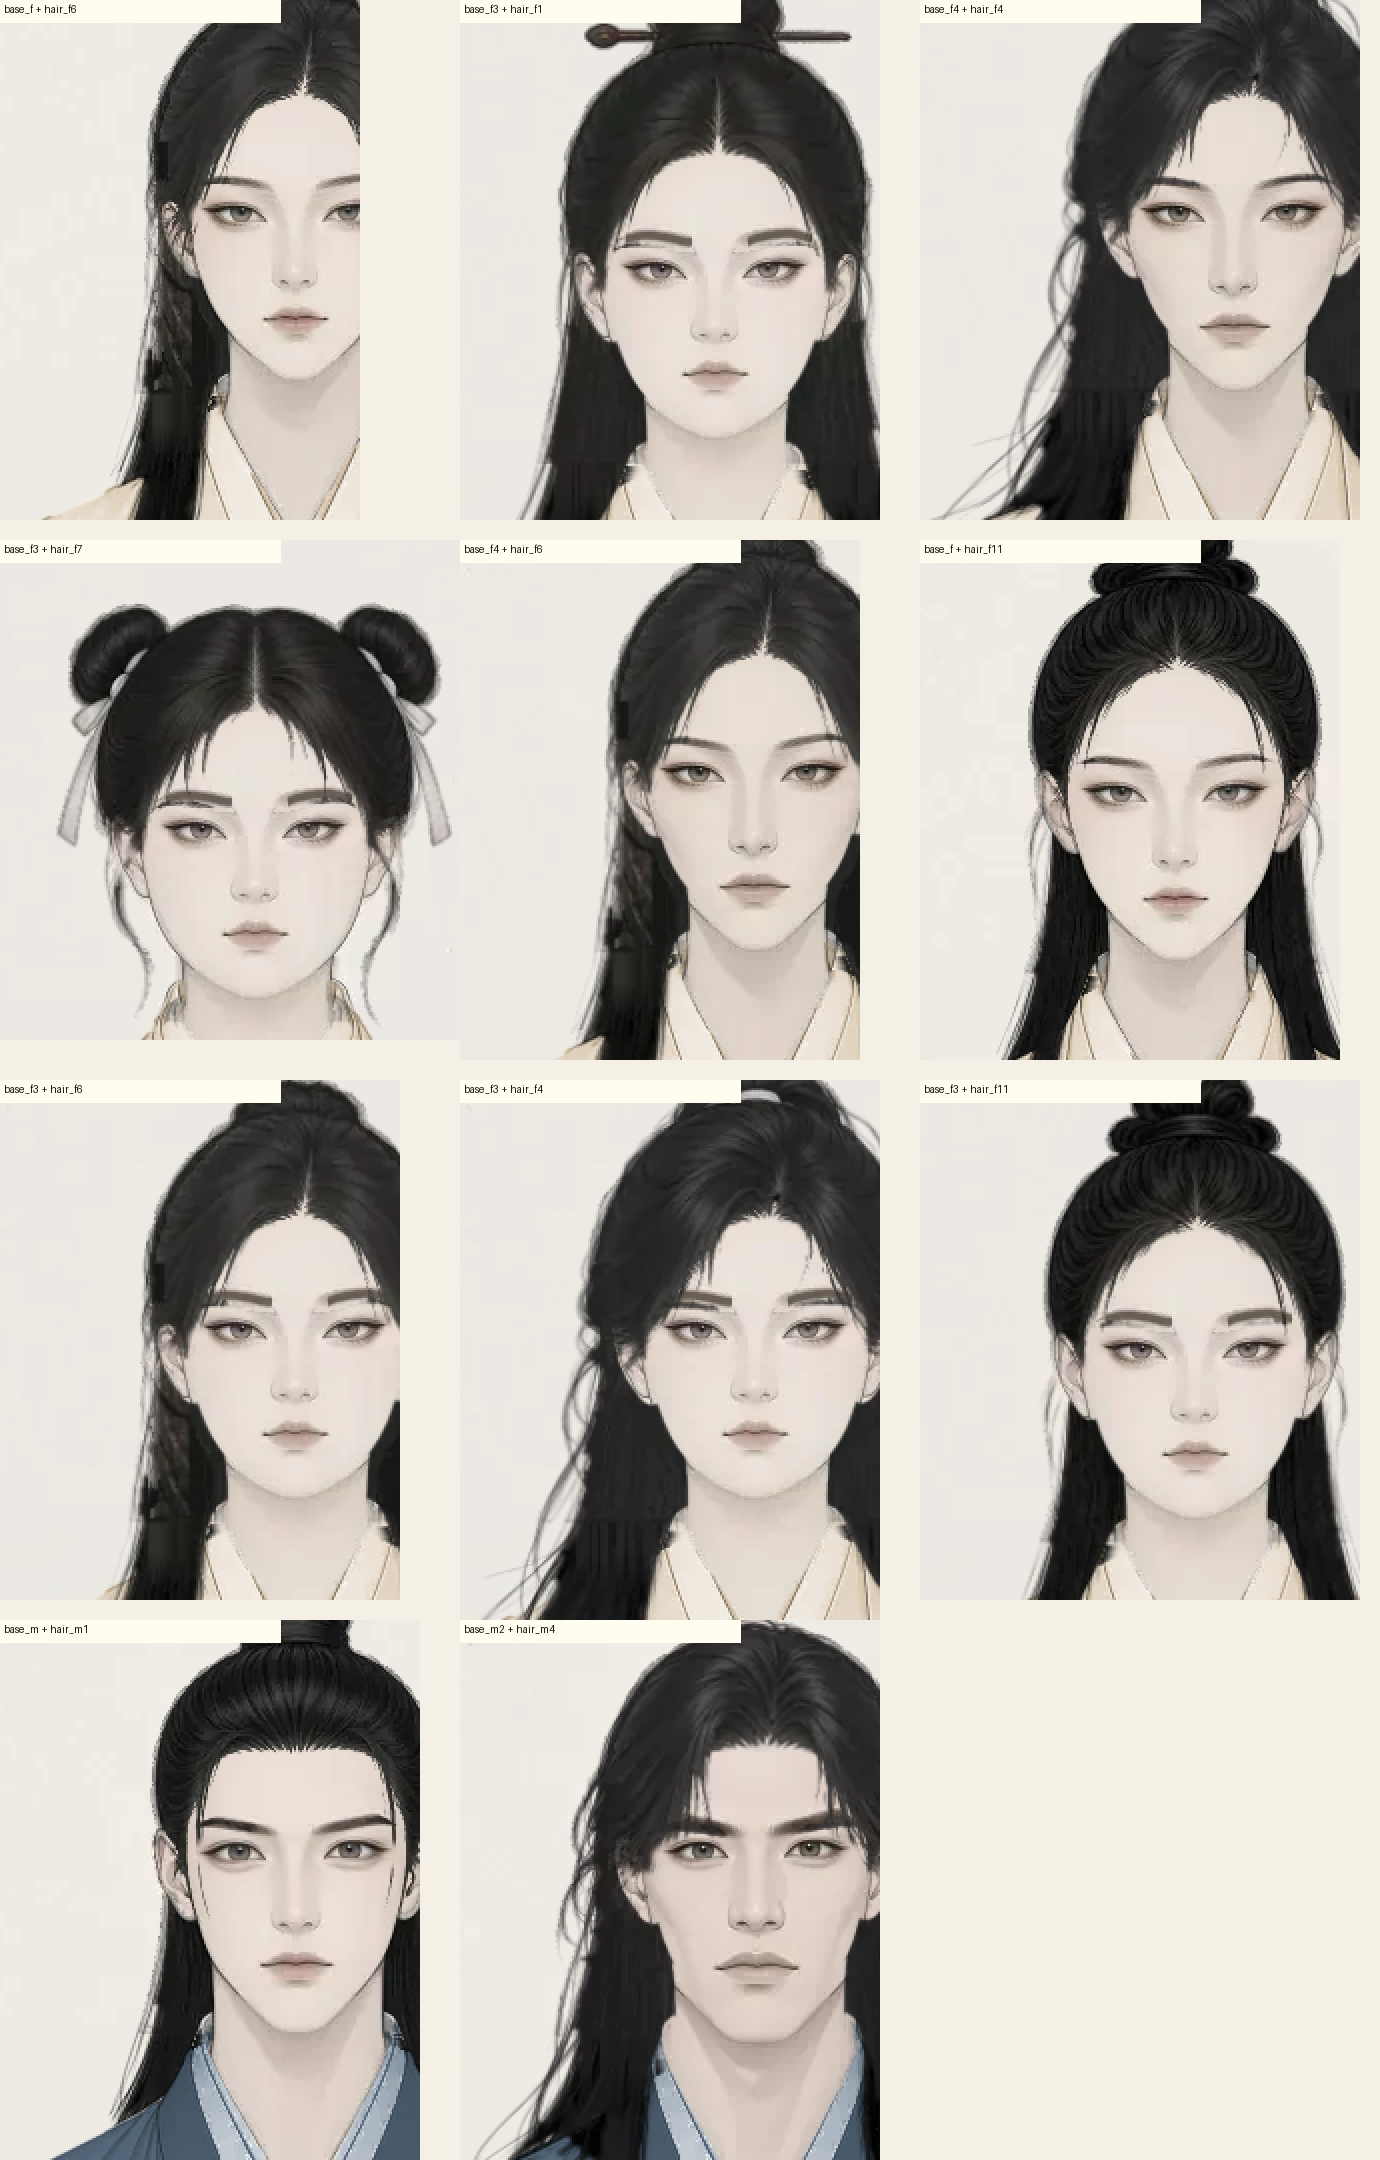
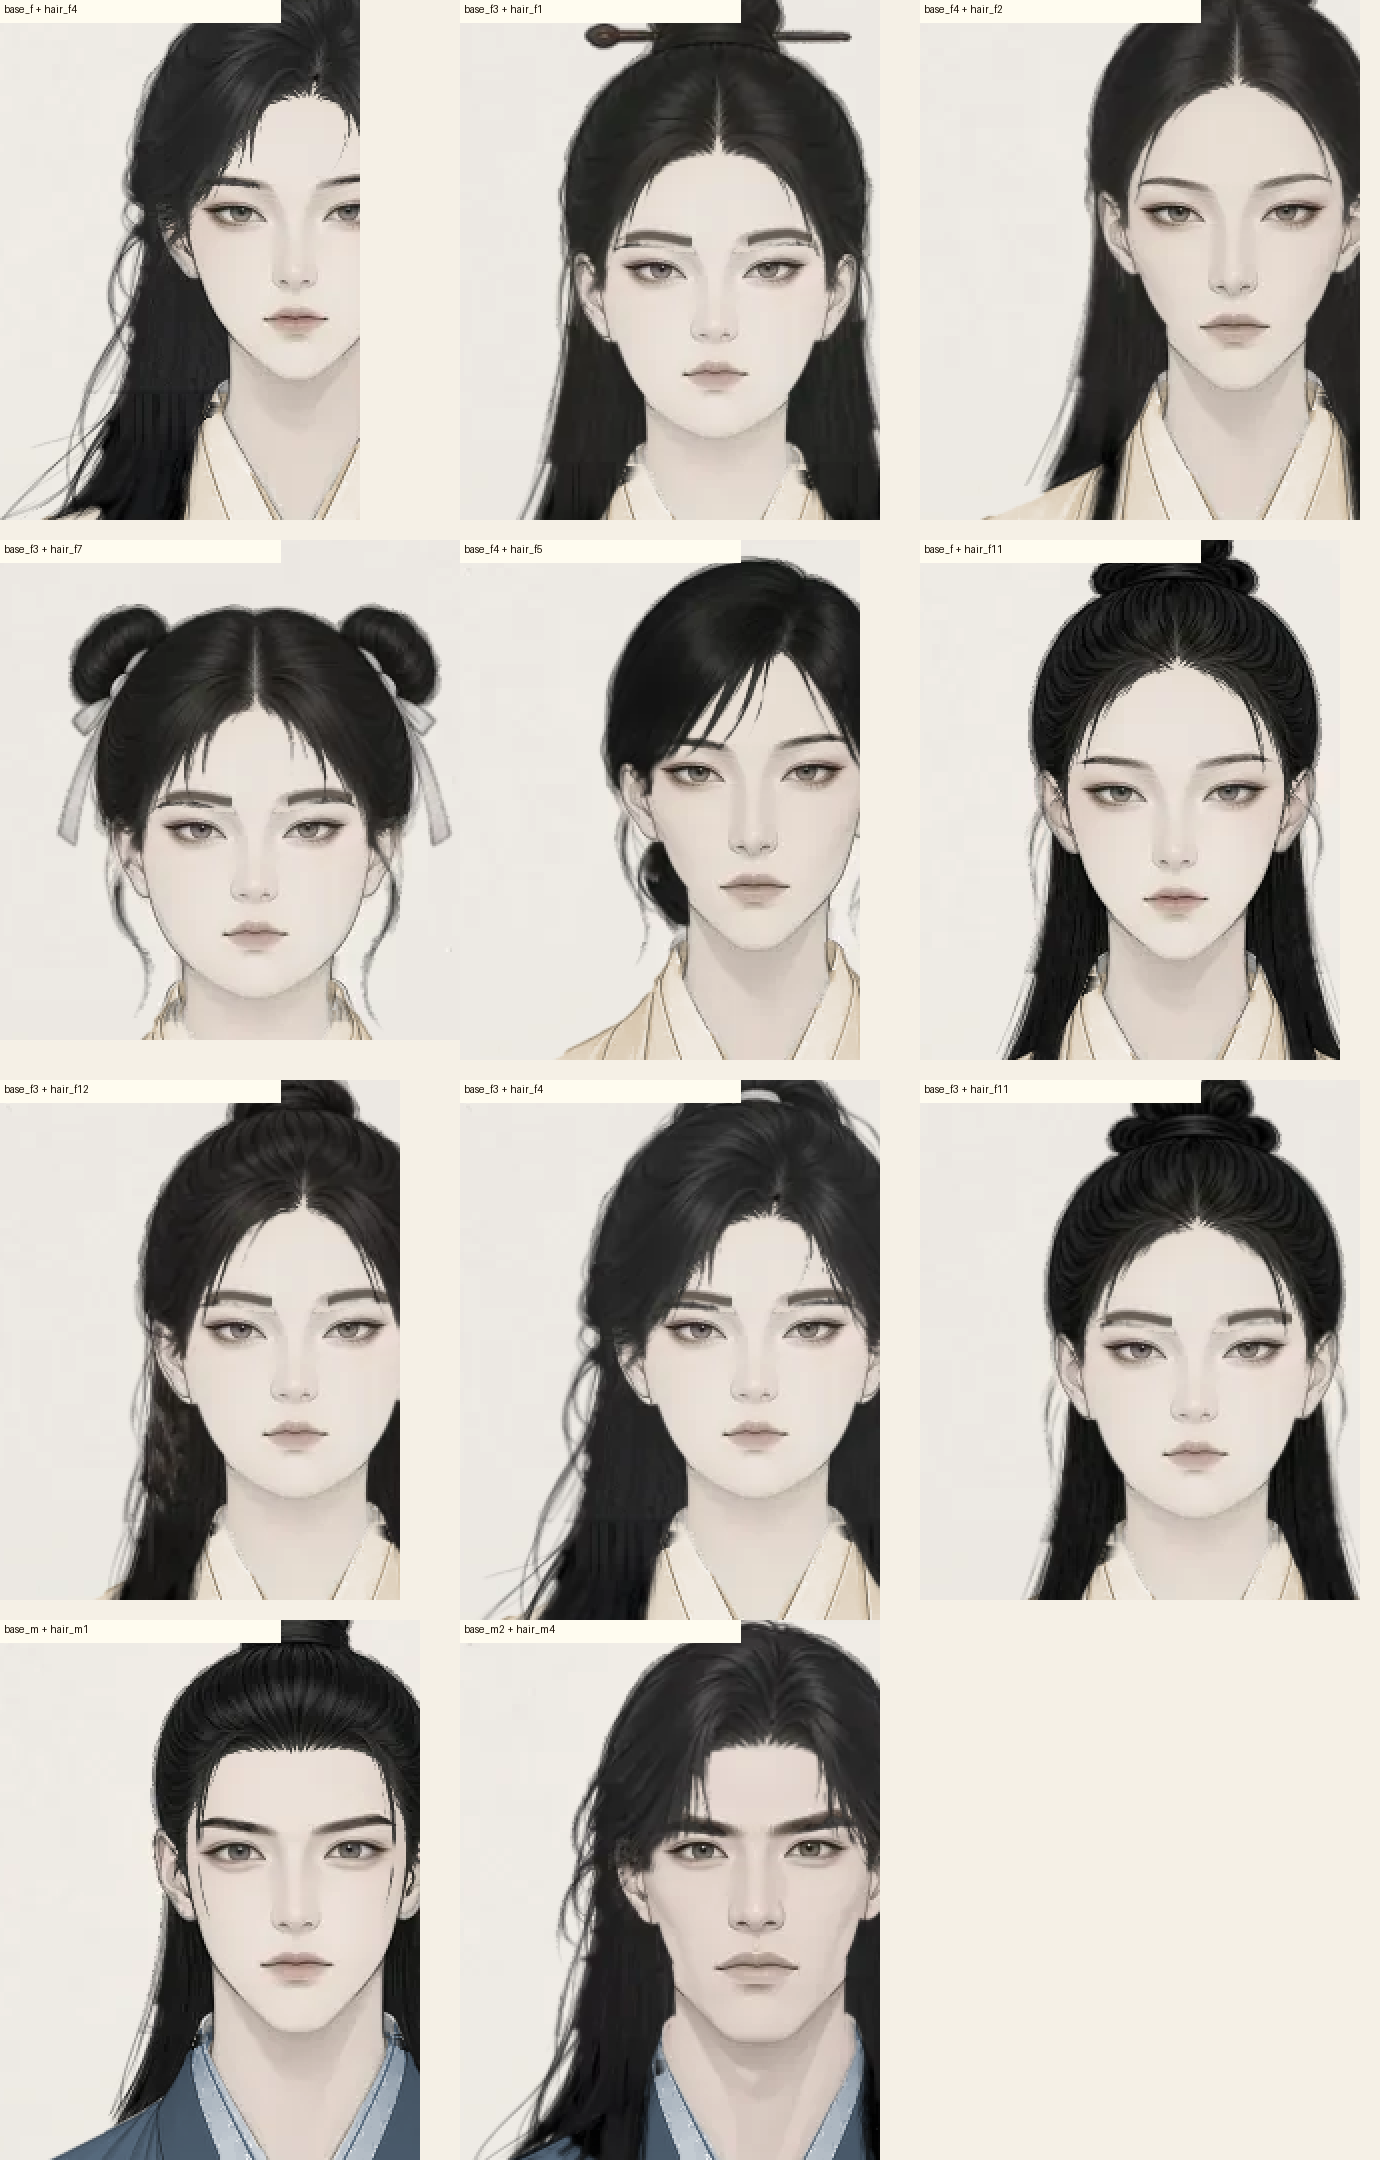
v0.16.8：hair_f6 退出随机池，旧档绘制时换成半束长发
耳旁方块修不干净。创建页和 NPC 不再抽到 hair_f6，贴图文件留着。存档里的签不动，画的时候换成 hair_f4。同场十二人的底头和发型仍不撞。

diff --git a/tools/repair_v0168.py b/tools/repair_v0168.py
@@ -826,7 +826,7 @@ def render_pair(lib):
 
 def render_cape(lib):
     tiles = []
-    for base, hair in (("base_f", "hair_f6@base_f"), ("base_f3", "hair_f1@base_f"), ("base_f4", "hair_f4@base_f")):
+    for base, hair in (("base_f", "hair_f4@base_f"), ("base_f3", "hair_f1@base_f"), ("base_f4", "hair_f12@base_f")):
         im = compose(lib, base, hair=hair, robe="robe_f2@base_f", robe_tint=(214, 196, 170),
                      outer="outer_f4@base_f", outer_tint=(232, 224, 210), eyes="eyes:fx_f4@base_f")
         pic = Image.fromarray(im).crop((50, 0, 390, 520)).resize((340, 520))
@@ -935,13 +935,13 @@ def doubles(lib, base, brow, hair=None):
 def render_zoom(lib):
     """脸和发缘 2 倍近邻放大，专门看硬边、白边、矩形补丁、双眉。"""
     combos = [
-        ("base_f", "hair_f6@base_f", (70, 40, 250, 300)),
+        ("base_f", "hair_f4@base_f", (70, 40, 250, 300)),
         ("base_f3", "hair_f1@base_f", (90, 20, 300, 280)),
-        ("base_f4", "hair_f4@base_f", (60, 40, 280, 300)),
+        ("base_f4", "hair_f2@base_f", (60, 40, 280, 300)),
         ("base_f3", "hair_f7@base_f", (90, 10, 320, 260)),
-        ("base_f4", "hair_f6@base_f", (70, 30, 270, 290)),
+        ("base_f4", "hair_f5@base_f", (70, 30, 270, 290)),
         ("base_f", "hair_f11@base_f", (90, 20, 300, 280)),
-        ("base_f3", "hair_f6@base_f", (70, 30, 270, 290)),
+        ("base_f3", "hair_f12@base_f", (70, 30, 270, 290)),
         ("base_f3", "hair_f4@base_f", (70, 30, 280, 300)),
         ("base_f3", "hair_f11@base_f", (80, 20, 300, 280)),
         ("base_m", "hair_m1@base_m", (70, 30, 280, 300)),

diff --git a/STATUS.md b/STATUS.md
@@ -6,11 +6,12 @@
 - 存档主版本仍是 5。经济常量、感悟/好感/风声/灵石的加减都没动。只改立绘怎么叠、部件贴图，以及立绘框在图还没好时画什么。
 - **双眉：** 底脸自己已经画了眉。再叠眉贴片，上沿的灰毛边会错成第二道，盖住底眉时又会在眉上留下一块浅色。绘制时不再叠眉片（`portrait5_view.render_spec`），每张脸只留底脸这一套眉，眉区肤色就是底脸自己的。
 - **头发：** 长发内部半透明，袍色会透出来。不用一个 alpha 阈值硬切（那样发梢变成墨块，外缘发灰发白）。外缘 3px 保持原来的羽化，再往里用 smoothstep 把剩下的透明度收掉；贴着发丝的浅色渗成发色，免得线性采样出白边。
-- **底脸眉和发缝：** 不叠眉片之后，`base_f3` 仍像空心双眉。眉本身比 `base_f` 细，而且每张换到 `base_f3` 上的眼贴片，在眉和上眼睑之间又多一道深色（画布 y≈144，眼睑从 y≈149 才开始）。眉区用周围肤色软补后，按 `base_f` 铺了约 3px 的实心墨眉；眼贴片在眼睑以上的那道深色去掉了，眼睑留着。游戏读的是 `web_portrait/heads/base_f3.webp` 和 `web_portrait/pack/feat_base_f3.bin`（眼贴片在包里，不在散文件）。`hair_f6` 耳旁、眼睛到下颌这一带左右各有一块低纹理深色方块（约 30×55，5deed59 的对照图上还在）。用旁边发丝的颜色铺平。自检 `tools/scan_portrait_seams.py` 对着拼出来的立绘跑：5deed59 的 `base_f`+`hair_f6` 能报出那两块，现在全部女/男底脸 × 发型是 0。创建页实拍在 `ingame_f3_doublebun.png`、`ingame_f_hairf6_cape.png`（发布版渲染，右边是放大）。没有把这两套从池子里拿掉。
+- **底脸眉：** `base_f3` 的眉改成单道实心，创建页实拍看过，可以。
+- **hair_f6：** 贴图上耳旁的深色方块修不干净，不再进创建页发髻和 NPC 随机池（文件还在）。旧档里签是 `hair_f6` 的人，绘制时换成半束长发 `hair_f4`，存档里的签不动，主版本仍是 5。同场女修仍是三种底头、圆脸至少 3 人、发型至少五款，十二人的（底头，发型）不撞。
 - **毛领：** `outer_f4` 领口两侧的白毛尖削到肩线上，领口沿着肩走。外袍 × 发型的抽查在 `docs/art/v0168/outers_x_hair.png`（女）和 `outers_x_hair_m.png`（男）。
 - **占位图：** 部件还没到齐时，立绘框原来画一个淡墨头颈肩剪影。玩家每次加载都会先闪一下。现在框里只垫纸色；创建页换脸时留着上一张，新的合成好了再约 150ms 淡入。头、发、袍、外披和（网页上的）五官包会预先排队，一次只取几张，免得卡死这一帧。创建页、坊市人脸、人物详情、关系列表都走同一个立绘框。
 - 对照：`docs/art/v0168/`。`brow_doublebun_after.png`、`cape_fur_after.png`、`face_edge_2x.png` 用当前 `web_portrait` 的 webp 重渲（不是导入缓存）。`ingame_f3_doublebun.png` 是发布版创建页的 `base_f3`+双丸子，`ingame_f_hairf6_cape.png` 是 `base_f`+`hair_f6`+毛领，右边是放大。`brows_all_f.png` / `brows_all_m.png` 是全部底脸 × 发型。窗口截图，swiftshader，不是真机。
-- 测试：本机 `tools/run_tests.sh` **EXIT 0**（规则 111/0，江湖、UI 冒烟、游历、装备、经济、storylet、saga、境界、review、乱点、百年都过；玩家版 Web 已导出）。`tools/scan_portrait_seams.py` 输出 `seams 0`（同一套检测能在 5deed59 的 `base_f`+`hair_f6` 上报出左右两块）。本地发布包 release_check（无头 Chrome，swiftshader，模拟触控，不是真机）390×844 **38/38、0 报错**，启动 1.6 秒；360×640 **38/38、0 报错**，启动 1.5 秒。标题页「v0.16.8 试玩版」，没有 `window.qinglu_dev`。**没有在真机上测过。**
+- 测试：本机 `tools/run_tests.sh` **EXIT 0**（规则 111/0，江湖、UI 冒烟、游历、装备、经济、storylet、saga、境界、review、乱点、百年都过；玩家版 Web 已导出）。同场十二名女修底头+发型不撞，圆脸 4 人，发型 5 款。本地发布包 release_check（无头 Chrome，swiftshader，模拟触控，不是真机）390×844 **38/38、0 报错**，启动 1.5 秒；360×640 **38/38、0 报错**，启动 1.4 秒。标题页「v0.16.8 试玩版」，没有 `window.qinglu_dev`。**没有在真机上测过。**
 
 > 上一版：**v0.16.7 试玩版**（条目小头像去白底；按钮分主次；人物页有地方的画）。已合入 main（PR #8，合并提交 0e23aec），Pages 工作流 **43265782341** 部署成功（2026-11-13 约 01:12 北京时间）。
 
